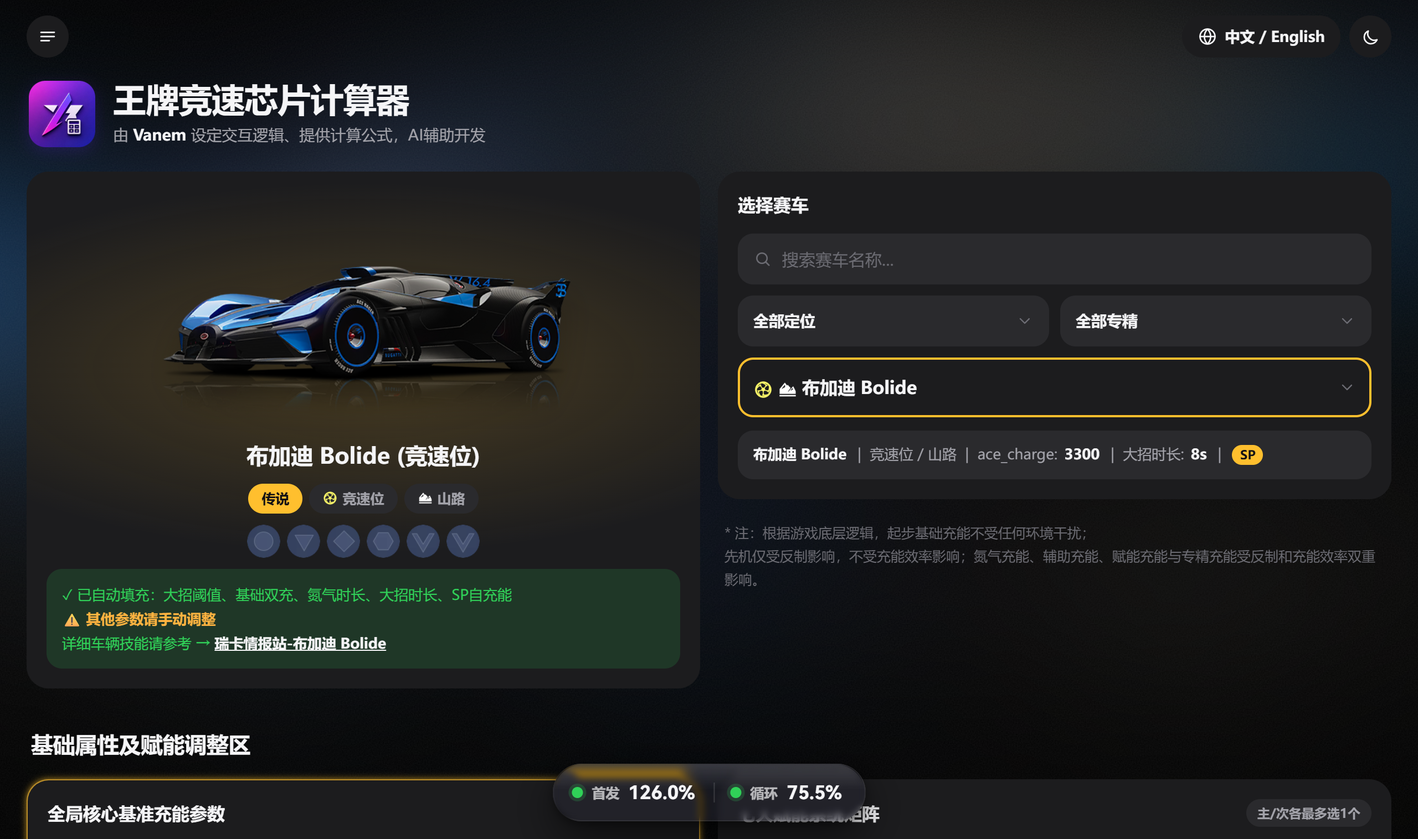
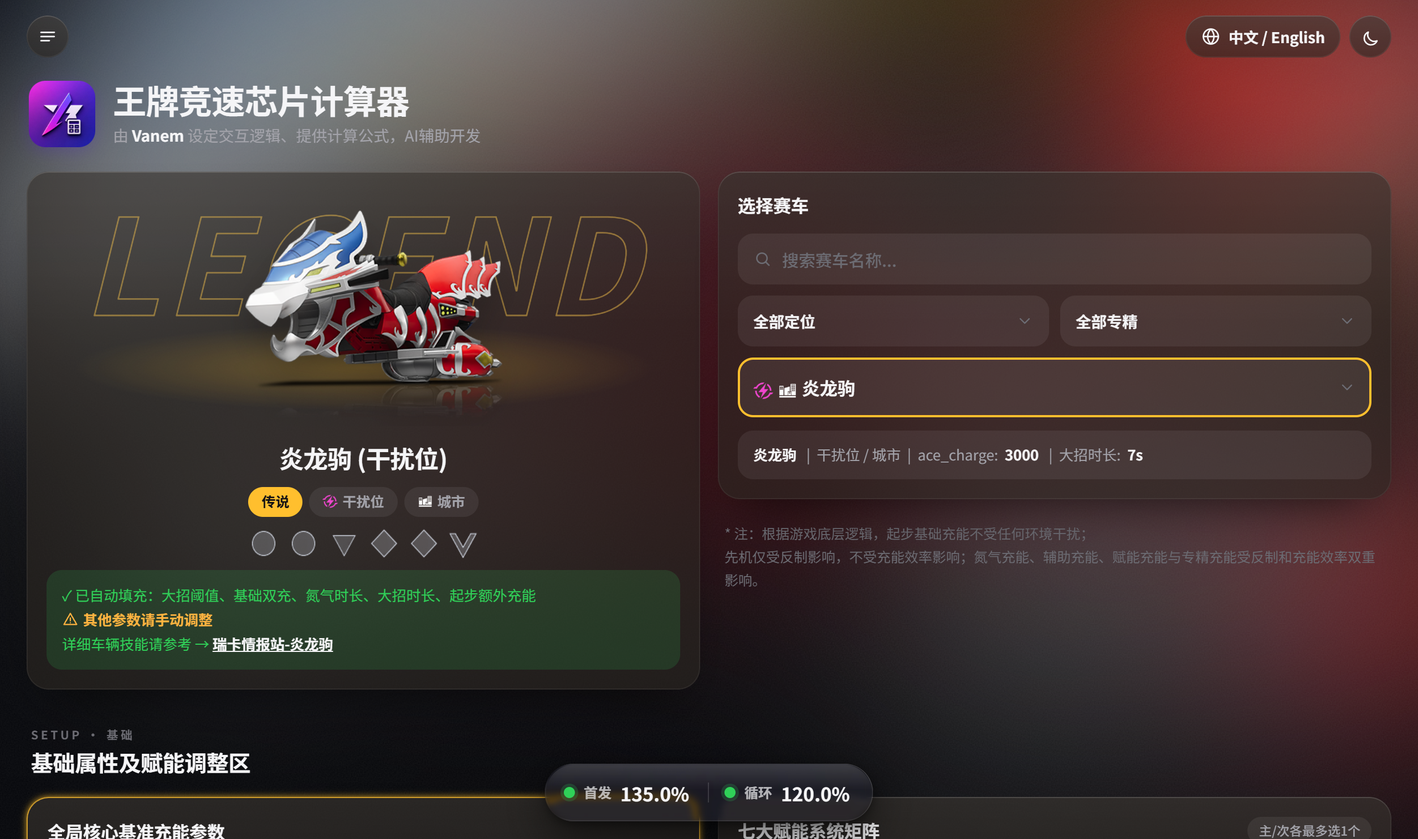
chore(screenshots): PWA 截图重拍为炎龙驹示例（双轨达成）
- 示例车由「布加迪 Bolide」换成「炎龙驹」（用户指定，视觉更好看）；
- 展示参数：先机 30% / 汇能 50% / 释放一大氮气 1 个 / 大招内氮气 2 个 / 勾选「能源回收」
  → 首发 ✅ 135.0%（余量 +35）、循环 ✅ 120.0%（余量 +20），结果区全绿；
- 截图脚本两处调整：
  (1) 选车改为按名字直接调 pickCar —— 车辆库近 200 项，移动视口还会走底部选车面板，
      原来靠 `text=` 点击容易在这个长列表里超时；
  (2) 顶部注释同步成新的展示状态。
- 6 张图尺寸与 manifest.json 的声明保持一致（桌面 2560×1516 / 移动 1440×3200），已逐张核对；
  文件名未变，Service Worker 又是 network-first 策略，老用户下次打开即可拿到新图。

diff --git a/scripts/render-screenshots.py b/scripts/render-screenshots.py
@@ -11,8 +11,9 @@
     screenshot-desktop-1.png ~ 3.png   2560×1516（1280×758 视口 @2x）
     screenshot-mobile-1.png  ~ 3.png   1440×3200（720×1600 视口 @2x）
 
-截图状态：布加迪 Bolide（飞火流星）· 对手反制 0% · 先机 20.5 / 汇能 50
-          · 释放一大所需氮气 1 个 · 勾选「能源回收」赋能 → 首发✅ 循环✅
+截图状态：炎龙驹 · 对手反制 0% · 先机 30 / 汇能 50
+          · 释放一大所需氮气 1 个 · 大招内释放氮气 2 个 · 勾选「能源回收」赋能
+          → 首发 ✅ 135.0% / 循环 ✅ 120.0%（双轨达成，截图里结论区全绿）
 
 依赖：python3 + playwright（chromium）
 """
@@ -23,7 +24,7 @@ import sys
 from playwright.sync_api import sync_playwright
 
 DEFAULT_URL = "https://aceracercalc.top/"
-CAR_NAME = "布加迪 Bolide"
+CAR_NAME = "炎龙驹"
 
 # 把页面调成「双轨达成」的展示状态
 SETUP_JS = """() => {
@@ -39,10 +40,11 @@ SETUP_JS = """() => {
   }
   const cr = document.getElementById('counterRange');
   if (cr) { cr.value = '0'; if (window.updateCounterSlider) updateCounterSlider(); }
-  setVal('inputXianji', 20.5);
-  setVal('inputHuineng', 50);
-  setVal('inputFirstNitroCount', 1);
+  setVal('inputXianji', 30);           // 先机 30%（上限）
+  setVal('inputHuineng', 50);          // 汇能 50%（上限）
+  setVal('inputFirstNitroCount', 1);   // 释放一大所需氮气 1 个
   check('chk_huishou', true);          // 能源回收（仅循环生效 +10%）
+  setVal('inputNitroCount', 2);        // 大招内释放氮气 2 个 —— 炎龙驹要 2 个才够循环自洽
   if (window.calculate) calculate();
   return true;
 }"""
@@ -108,10 +110,13 @@ def prepare(pg, url):
         pg.wait_for_timeout(400)
     except Exception:
         pass
-    pg.click("#carListBtn")
-    pg.wait_for_timeout(900)
-    pg.click(f"text={CAR_NAME}", timeout=8000)
-    pg.wait_for_timeout(1800)
+    # 直接按名字调 pickCar：比点下拉稳得多 —— 车辆库有近 200 项，
+    # 移动视口下还会走底部面板，靠 text= 点击容易在长列表里超时。
+    cid = pg.evaluate("(n) => { const c = CAR_DATABASE.find(x => x.name === n); return c ? c.id : null; }", CAR_NAME)
+    if cid is None:
+        raise SystemExit(f"car-database.js 里找不到车辆：{CAR_NAME}")
+    pg.evaluate("(id) => { if (window.pickCar) pickCar(id); }", cid)
+    pg.wait_for_timeout(2000)
     pg.evaluate(SETUP_JS)
     pg.wait_for_timeout(1000)
 
